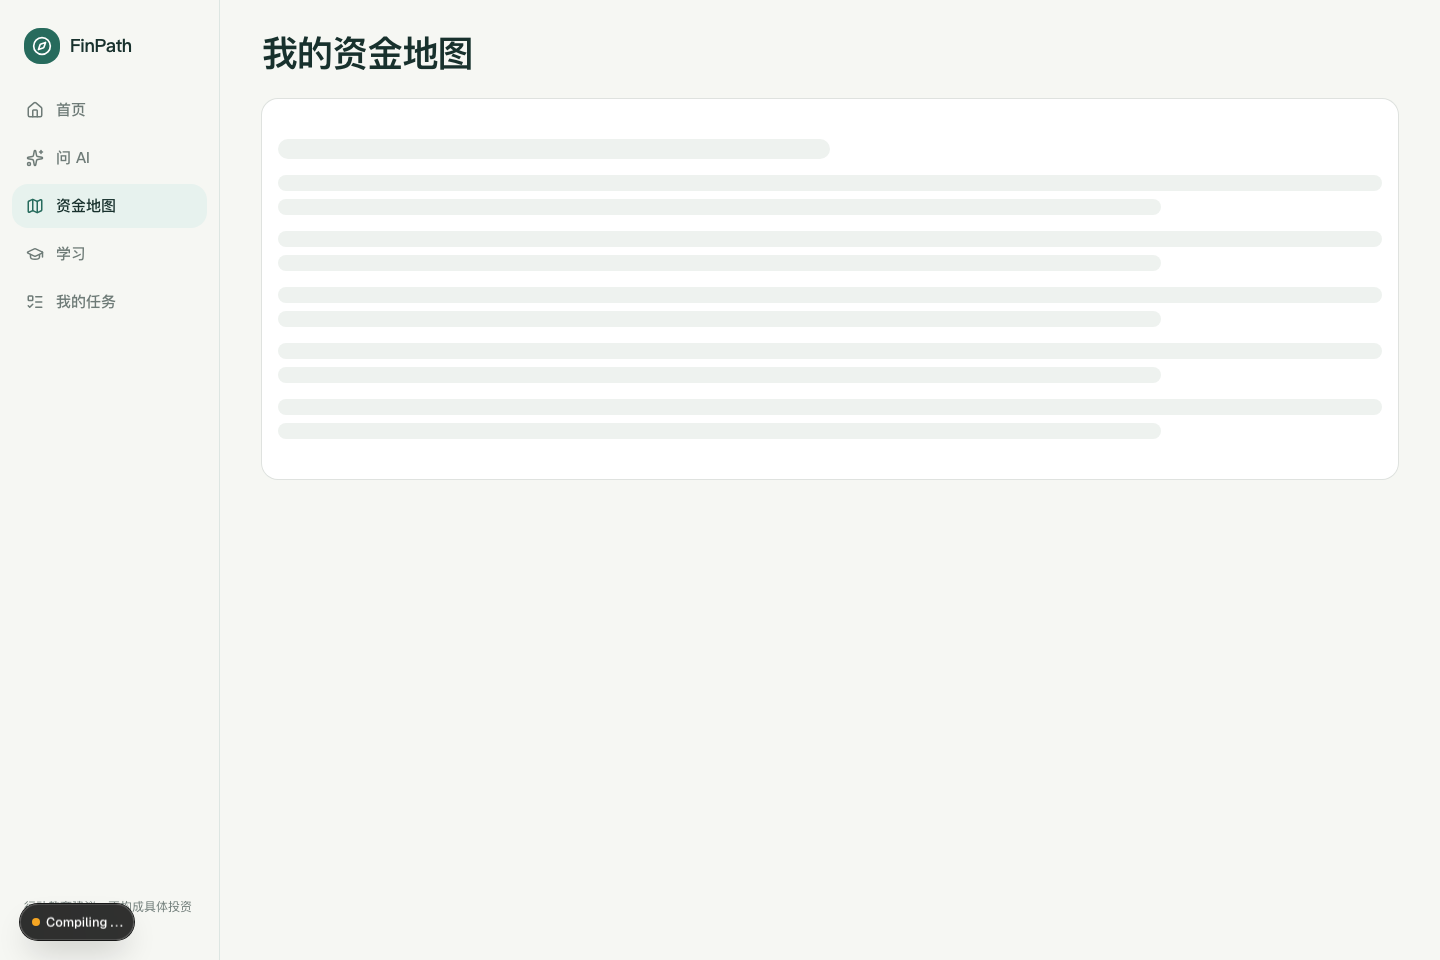
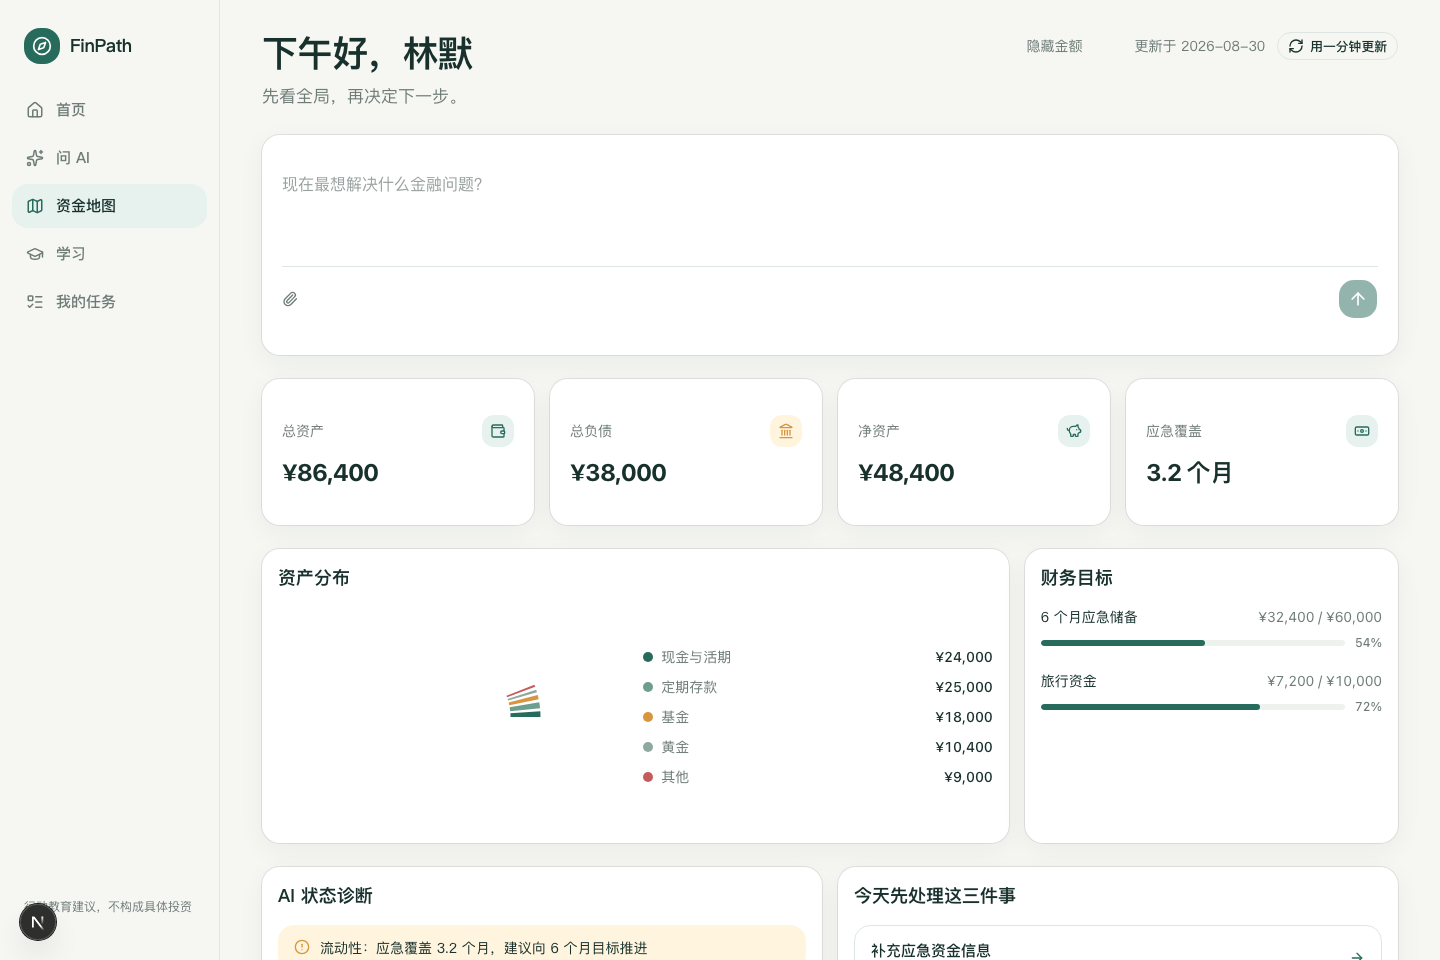
阶段 6：质量收敛与交付
- 双桌面尺寸：新增 viewport.spec（1280×800 全页无横向滚动 + 侧栏顺序断言）
- 截图修复：动态页（P02/P03/P05）API 准备数据后截图，1440×960 共 11 张
- 键盘/可访问性：quality.spec（Tab 焦点指示、侧栏聚焦、表单 aria-label、金额隐藏不改数据）
- 根治编译竞争：webServer 启动预热核心路由/API（playwright.config）
- 对比度核验：正文 12.9:1、主色 6.3:1 达标；辅助文字 4.4:1（设计 token 色值）；警示标签色仅用于非正文标签
- 交付文档：README.md（启动/环境变量/DB 初始化/测试/架构）
- 验证：lint / typecheck / test(59) / build / e2e(52) 全绿

diff --git a/e2e/screenshots.spec.ts b/e2e/screenshots.spec.ts
@@ -1,29 +1,120 @@
+import { readFileSync } from "node:fs";
 import { test } from "@playwright/test";
 
 /**
  * 1440×960 页面截图（与原型图 P01-P11 对照）
- * 原型图位于 FinPath_前端原型图_P01-P11/（1536×1024，按比例缩放对比）。
+ * 动态页（P02/P03/P05）先通过 API 准备数据，确保截图为真实渲染状态。
  */
 test.use({ viewport: { width: 1440, height: 960 } });
 
-const SHOTS: Array<[string, string]> = [
-  ["/", "p01-home"],
-  ["/diagnosis/demo-session?q=我有%203%20万元暂时不用", "p02-clarification"],
-  ["/plans/demo-plan", "p03-action-plan"],
-  ["/documents/new", "p04-document-upload"],
-  ["/documents/doc-bank-product", "p05-product-analysis"],
-  ["/learn/treasury-bonds", "p06-learning"],
-  ["/routes/overseas-payment-card", "p07-financial-route"],
-  ["/money-map", "p08-money-map"],
-  ["/money-map?drawer=add-asset", "p09-add-asset-drawer"],
-  ["/tasks", "p10-task-center"],
-  ["/tasks/t-overseas-card", "p11-task-detail"],
-];
+test("p01-home 1440×960 截图", async ({ page }) => {
+  await page.goto("/");
+  await page.waitForTimeout(500);
+  await page.screenshot({ path: "screenshots/p01-home.png" });
+});
 
-for (const [route, name] of SHOTS) {
-  test(`${name} 1440×960 截图`, async ({ page }) => {
-    await page.goto(route);
-    await page.waitForTimeout(500);
-    await page.screenshot({ path: `screenshots/${name}.png` });
+test("p02-clarification 1440×960 截图", async ({ page }) => {
+  const diag = await page.request.post("/api/diagnosis", {
+    data: { question: "我有 3 万元闲钱，想稳一点也想学投资" },
   });
+  const { session } = (await diag.json()) as { session: { id: string } };
+  await page.goto(`/diagnosis/${session.id}`);
+  await page.waitForTimeout(500);
+  await page.screenshot({ path: "screenshots/p02-clarification.png" });
+});
+
+test("p03-action-plan 1440×960 截图", async ({ page }) => {
+  const planId = await createPlan(page);
+  await page.goto(`/plans/${planId}`);
+  await page.waitForTimeout(500);
+  await page.screenshot({ path: "screenshots/p03-action-plan.png" });
+});
+
+test("p04-document-upload 1440×960 截图", async ({ page }) => {
+  await page.goto("/documents/new");
+  await page.waitForTimeout(500);
+  await page.screenshot({ path: "screenshots/p04-document-upload.png" });
+});
+
+test("p05-product-analysis 1440×960 截图", async ({ page }) => {
+  const docId = await createConfirmedDocument(page);
+  await page.goto(`/documents/${docId}`);
+  await page.waitForTimeout(600);
+  await page.screenshot({ path: "screenshots/p05-product-analysis.png" });
+});
+
+test("p06-learning 1440×960 截图", async ({ page }) => {
+  await page.goto("/learn/treasury-bonds");
+  await page.waitForTimeout(500);
+  await page.screenshot({ path: "screenshots/p06-learning.png" });
+});
+
+test("p07-financial-route 1440×960 截图", async ({ page }) => {
+  await page.goto("/routes/overseas-payment-card");
+  await page.waitForTimeout(500);
+  await page.screenshot({ path: "screenshots/p07-financial-route.png" });
+});
+
+test("p08-money-map 1440×960 截图", async ({ page }) => {
+  await page.goto("/money-map");
+  await page.waitForTimeout(700);
+  await page.screenshot({ path: "screenshots/p08-money-map.png" });
+});
+
+test("p09-add-asset-drawer 1440×960 截图", async ({ page }) => {
+  await page.goto("/money-map?drawer=add-asset");
+  await page.waitForTimeout(700);
+  await page.screenshot({ path: "screenshots/p09-add-asset-drawer.png" });
+});
+
+test("p10-task-center 1440×960 截图", async ({ page }) => {
+  await page.goto("/tasks");
+  await page.waitForTimeout(600);
+  await page.screenshot({ path: "screenshots/p10-task-center.png" });
+});
+
+test("p11-task-detail 1440×960 截图", async ({ page }) => {
+  await page.goto("/tasks/t-overseas-card");
+  await page.waitForTimeout(600);
+  await page.screenshot({ path: "screenshots/p11-task-detail.png" });
+});
+
+/* ============ 数据准备辅助 ============ */
+
+async function createPlan(page: import("@playwright/test").Page): Promise<string> {
+  const diag = await page.request.post("/api/diagnosis", {
+    data: { question: "年终奖 5 万怎么安排？" },
+  });
+  const { session } = (await diag.json()) as { session: { id: string } };
+  for (const [key, value] of [
+    ["expectedUseHorizon", "1_to_3y"],
+    ["emergencyFundMonths", "4.5"],
+    ["highInterestDebt", "false"],
+    ["lossTolerance", "small"],
+    ["incomeStability", "medium"],
+  ]) {
+    await page.request.post(`/api/diagnosis/${session.id}/answer`, { data: { key, value } });
+  }
+  const planRes = await page.request.post(`/api/diagnosis/${session.id}/generate-plan`);
+  const { plan } = (await planRes.json()) as { plan: { id: string } };
+  return plan.id;
+}
+
+async function createConfirmedDocument(page: import("@playwright/test").Page): Promise<string> {
+  const buf = readFileSync("e2e/fixtures/sample-product.pdf");
+  const up = await page.request.post("/api/documents", {
+    multipart: {
+      file: { name: "product.pdf", mimeType: "application/pdf", buffer: buf },
+    },
+  });
+  const { document } = (await up.json()) as { document: { id: string } };
+  await page.request.post(`/api/documents/${document.id}/analyze`);
+  const ex = await page.request.get(`/api/documents/${document.id}`);
+  const extraction = ((await ex.json()) as {
+    extraction: { fields: Array<{ key: string; value: string }> };
+  }).extraction;
+  await page.request.patch(`/api/documents/${document.id}/extraction`, {
+    data: { confirmed: Object.fromEntries(extraction.fields.map((f) => [f.key, f.value])) },
+  });
+  return document.id;
 }

diff --git a/e2e/viewport.spec.ts b/e2e/viewport.spec.ts
@@ -1,0 +1,98 @@
+import { readFileSync } from "node:fs";
+import { expect, test } from "@playwright/test";
+
+/**
+ * 双桌面尺寸检查：1280×800（手册 §15.1：1440×960 + 1280×800）
+ * 断言：无横向滚动条（正文/关键信息不溢出）。
+ */
+test.use({ viewport: { width: 1280, height: 800 } });
+
+const STATIC_ROUTES: Array<[string, string]> = [
+  ["/", "P01 首页"],
+  ["/documents/new", "P04 上传"],
+  ["/learn/treasury-bonds", "P06 学习"],
+  ["/routes/overseas-payment-card", "P07 办事路线"],
+  ["/money-map", "P08 资金地图"],
+  ["/money-map?drawer=add-asset", "P09 资产抽屉"],
+  ["/tasks", "P10 任务中心"],
+  ["/tasks/t-overseas-card", "P11 任务详情"],
+];
+
+for (const [route, name] of STATIC_ROUTES) {
+  test(`${name} 1280×800 无横向滚动`, async ({ page }) => {
+    await page.goto(route);
+    await page.waitForTimeout(600);
+    const overflow = await page.evaluate(
+      () =>
+        document.documentElement.scrollWidth - document.documentElement.clientWidth,
+    );
+    expect(overflow, `${route} 存在横向溢出 ${overflow}px`).toBeLessThanOrEqual(0);
+  });
+}
+
+test("P02 澄清 1280×800 无横向滚动", async ({ page }) => {
+  const diag = await page.request.post("/api/diagnosis", {
+    data: { question: "3 万元闲钱怎么安排？" },
+  });
+  const { session } = (await diag.json()) as { session: { id: string } };
+  await page.goto(`/diagnosis/${session.id}`);
+  await page.waitForTimeout(600);
+  const overflow = await page.evaluate(
+    () => document.documentElement.scrollWidth - document.documentElement.clientWidth,
+  );
+  expect(overflow).toBeLessThanOrEqual(0);
+});
+
+test("P03 行动路径 1280×800 无横向滚动", async ({ page }) => {
+  const diag = await page.request.post("/api/diagnosis", {
+    data: { question: "年终奖怎么安排？" },
+  });
+  const { session } = (await diag.json()) as { session: { id: string } };
+  for (const [key, value] of [
+    ["expectedUseHorizon", "1_to_3y"],
+    ["emergencyFundMonths", "4.5"],
+    ["highInterestDebt", "false"],
+    ["lossTolerance", "small"],
+    ["incomeStability", "medium"],
+  ]) {
+    await page.request.post(`/api/diagnosis/${session.id}/answer`, { data: { key, value } });
+  }
+  const planRes = await page.request.post(`/api/diagnosis/${session.id}/generate-plan`);
+  const { plan } = (await planRes.json()) as { plan: { id: string } };
+  await page.goto(`/plans/${plan.id}`);
+  await page.waitForTimeout(600);
+  const overflow = await page.evaluate(
+    () => document.documentElement.scrollWidth - document.documentElement.clientWidth,
+  );
+  expect(overflow).toBeLessThanOrEqual(0);
+});
+
+test("P05 产品解读 1280×800 无横向滚动", async ({ page }) => {
+  const buf = readFileSync("e2e/fixtures/sample-product.pdf");
+  const up = await page.request.post("/api/documents", {
+    multipart: { file: { name: "p.pdf", mimeType: "application/pdf", buffer: buf } },
+  });
+  const { document: doc } = (await up.json()) as { document: { id: string } };
+  await page.request.post(`/api/documents/${doc.id}/analyze`);
+  const ex = await page.request.get(`/api/documents/${doc.id}`);
+  const extraction = ((await ex.json()) as {
+    extraction: { fields: Array<{ key: string; value: string }> };
+  }).extraction;
+  await page.request.patch(`/api/documents/${doc.id}/extraction`, {
+    data: { confirmed: Object.fromEntries(extraction.fields.map((f) => [f.key, f.value])) },
+  });
+  await page.goto(`/documents/${doc.id}`);
+  await page.waitForTimeout(600);
+  const overflow = await page.evaluate(
+    () => document.documentElement.scrollWidth - document.documentElement.clientWidth,
+  );
+  expect(overflow).toBeLessThanOrEqual(0);
+});
+
+test("侧栏 5 项顺序固定（首页/问AI/资金地图/学习/我的任务）", async ({ page }) => {
+  await page.goto("/tasks");
+  const items = await page
+    .locator("nav[aria-label='主导航'] a")
+    .allTextContents();
+  expect(items.map((s) => s.trim())).toEqual(["首页", "问 AI", "资金地图", "学习", "我的任务"]);
+});

diff --git a/e2e/quality.spec.ts b/e2e/quality.spec.ts
@@ -1,0 +1,69 @@
+import { expect, test } from "@playwright/test";
+
+/**
+ * 阶段 6 质量检查：键盘导航、焦点指示、表单可访问标签。
+ */
+
+test("首页 Tab 聚焦元素有可见焦点指示（ring/outline）", async ({ page }) => {
+  await page.goto("/");
+  await page.keyboard.press("Tab");
+  const hasIndicator = await page.evaluate(() => {
+    const el = document.activeElement as HTMLElement | null;
+    if (!el) return false;
+    const s = getComputedStyle(el);
+    return s.outlineStyle !== "none" || s.boxShadow !== "none";
+  });
+  expect(hasIndicator).toBe(true);
+});
+
+test("登录后页面 Tab 可依次聚焦侧栏导航", async ({ page }) => {
+  await page.goto("/tasks");
+  await page.waitForTimeout(500);
+  // 按几次 Tab，应能聚焦到侧栏"首页"链接
+  let focusedText = "";
+  for (let i = 0; i < 12; i++) {
+    await page.keyboard.press("Tab");
+    focusedText = await page.evaluate(
+      () => (document.activeElement as HTMLElement | null)?.textContent?.trim() ?? "",
+    );
+    if (focusedText.includes("首页")) break;
+  }
+  expect(focusedText).toContain("首页");
+});
+
+test("P09 抽屉表单输入具备可访问标签", async ({ page }) => {
+  await page.goto("/money-map?drawer=add-asset");
+  await expect(page.getByLabel("金额下限")).toBeVisible();
+  await expect(page.getByLabel("金额上限")).toBeVisible();
+  await expect(page.getByRole("button", { name: "保存到资金地图" })).toBeVisible();
+});
+
+test("P04 上传区具备可访问标签", async ({ page }) => {
+  await page.goto("/documents/new");
+  await expect(page.getByLabel("上传产品截图或 PDF")).toBeVisible();
+});
+
+test("P02 澄清问题具备 radiogroup 与单选项标签", async ({ page }) => {
+  const diag = await page.request.post("/api/diagnosis", {
+    data: { question: "年终奖怎么安排？" },
+  });
+  const { session } = (await diag.json()) as { session: { id: string } };
+  await page.goto(`/diagnosis/${session.id}`);
+  await expect(page.getByRole("radiogroup")).toBeVisible();
+  const radios = page.getByRole("radio");
+  await expect(radios).toHaveCount(4);
+});
+
+test("金额隐藏开关不改变 API 数据（仅视觉）", async ({ page }) => {
+  const res = await page.request.get("/api/money-map");
+  const { totalAssets } = (await res.json()) as { totalAssets: number };
+  await page.goto("/money-map");
+  await page.waitForTimeout(600);
+  // 打开隐藏开关
+  await page.getByRole("switch", { name: "隐藏金额" }).click();
+  await expect(page.getByText("¥•••").first()).toBeVisible();
+  // API 数据未变
+  const res2 = await page.request.get("/api/money-map");
+  const { totalAssets: after } = (await res2.json()) as { totalAssets: number };
+  expect(after).toBe(totalAssets);
+});

diff --git a/playwright.config.ts b/playwright.config.ts
@@ -22,10 +22,12 @@ export default defineConfig({
     },
   ],
   webServer: {
-    command: "pnpm dev",
+    // 启动后预热核心路由/API，避免测试并行时的首次编译竞争
+    command:
+      "sh -c 'pnpm dev & sleep 8 && curl -s -o /dev/null http://localhost:3000/ && curl -s -o /dev/null -X POST http://localhost:3000/api/diagnosis -H \"Content-Type: application/json\" -d \"{\\\"question\\\":\\\"预热\\\"}\" && curl -s -o /dev/null http://localhost:3000/tasks && curl -s -o /dev/null http://localhost:3000/money-map && wait'",
     url: "http://localhost:3000",
     reuseExistingServer: !process.env.CI,
-    timeout: 120_000,
+    timeout: 180_000,
     // e2e 强制 Mock Provider，不消耗真实 Token
     env: { AI_TEXT_PROVIDER: "mock" },
   },

diff --git a/README.md b/README.md
@@ -1,0 +1,68 @@
+# FinPath MVP
+
+把模糊金融问题转换成"有条件、有证据、有风险说明、可执行、可持续跟踪"的行动路径。
+
+## 本地启动
+
+```bash
+pnpm install          # 安装依赖
+pnpm dev              # 开发服务器 http://localhost:3000
+```
+
+无任何环境变量时，应用以 **Demo 模式**运行（内存数据 + Mock 模型），两条核心闭环可直接体验与测试。
+
+## 环境变量（`.env.local`，不提交 Git）
+
+| 变量 | 用途 | 必需 |
+|---|---|---|
+| `NEXT_PUBLIC_SUPABASE_URL` | Supabase 项目地址 | 接入真实数据库时 |
+| `NEXT_PUBLIC_SUPABASE_ANON_KEY` | Supabase anon key | 同上 |
+| `SUPABASE_SERVICE_ROLE_KEY` | 服务端特权 key（仅服务端） | 同上 |
+| `AI_TEXT_PROVIDER` | `deepseek` / `openai` / `mock` | 默认 deepseek |
+| `DEEPSEEK_API_KEY` | DeepSeek 文本模型 Key | 真实 AI 澄清时 |
+| `DEEPSEEK_BASE_URL` | 默认 `https://api.deepseek.com` | 可选 |
+| `DEEPSEEK_MODEL` | 默认 `deepseek-chat` | 可选 |
+| `AI_DOCUMENT_PROVIDER` | `openai`（视觉解析） | 默认 openai |
+| `OPENAI_API_KEY` | OpenAI 视觉模型 Key | 真实文件解析时 |
+| `OPENAI_MODEL_TEXT` / `OPENAI_MODEL_DOCUMENT` | 备用文本/视觉模型 | 可选 |
+| `MAX_UPLOAD_MB` | 文件大小上限，默认 20 | 可选 |
+| `APP_ENV` | `development` / `production` | 可选 |
+
+## 数据库初始化（接入 Supabase 时）
+
+1. 在 Supabase 创建项目，将三个 `SUPABASE_*` 变量写入 `.env.local`。
+2. 应用迁移（二选一）：
+   - SQL 编辑器：粘贴执行 `supabase/migrations/0001_init.sql`；
+   - CLI：`supabase db push`（需 supabase CLI 与项目链接）。
+3. 重启 `pnpm dev`，`getRepository()` 自动切换到 SupabaseRepository（RLS 生效，未登录返回 401）。
+
+> 迁移包含 11 张表 + RLS 策略 + demo profile 种子。金额一律 bigint 整数元；不含银行卡号/密码/验证码/身份证字段。
+
+## 测试
+
+```bash
+pnpm lint          # ESLint
+pnpm typecheck     # TypeScript strict
+pnpm test          # Vitest 单元测试（59 用例）
+pnpm test:e2e      # Playwright（52 用例，含 1440×960 截图、1280×800 无溢出、双主链路）
+pnpm build         # 生产构建
+```
+
+- e2e 强制 `AI_TEXT_PROVIDER=mock`，不消耗真实 Token；webServer 启动时预热核心路由避免首次编译竞争。
+- 截图输出在 `screenshots/`（与 `FinPath_前端原型图_P01-P11/` 对照）。
+
+## 两条核心闭环
+
+1. **资金行动路径**：P01 提问 → P02 澄清（一次一问）→ 规则引擎 + 模型解释 → P03 行动路径 → P10 任务 → P08 资金地图。
+2. **产品解读**：P04 上传（PDF/PNG/JPG ≤20MB）→ DocumentAnalyzer 提取（来源/置信度/页码/原文）→ 用户确认 → P05 解读 → P10 任务。
+
+## 架构要点
+
+- `lib/server/ai/`：ModelProvider 接口（DeepSeek/OpenAI/Mock）+ Zod Schema + 版本化 Prompt。
+- `lib/server/rules/`：确定性规则引擎（硬约束先于模型）。
+- `lib/server/documents/`：DocumentAnalyzer 独立接口（与文本模型解耦）。
+- `lib/server/repository.ts`：Repository 接口，Supabase / Demo 双实现，按环境自动切换。
+- 所有 AI 输出经 Zod 校验，失败重试一次；输出含证券代码/收益承诺/比例越界即拒绝。
+- API Key 仅读环境变量，绝不进入代码、日志、测试或 Git。
+
+详见 `FinPath_MVP_Spike技术设计与开发手册_V1.0.md`。
